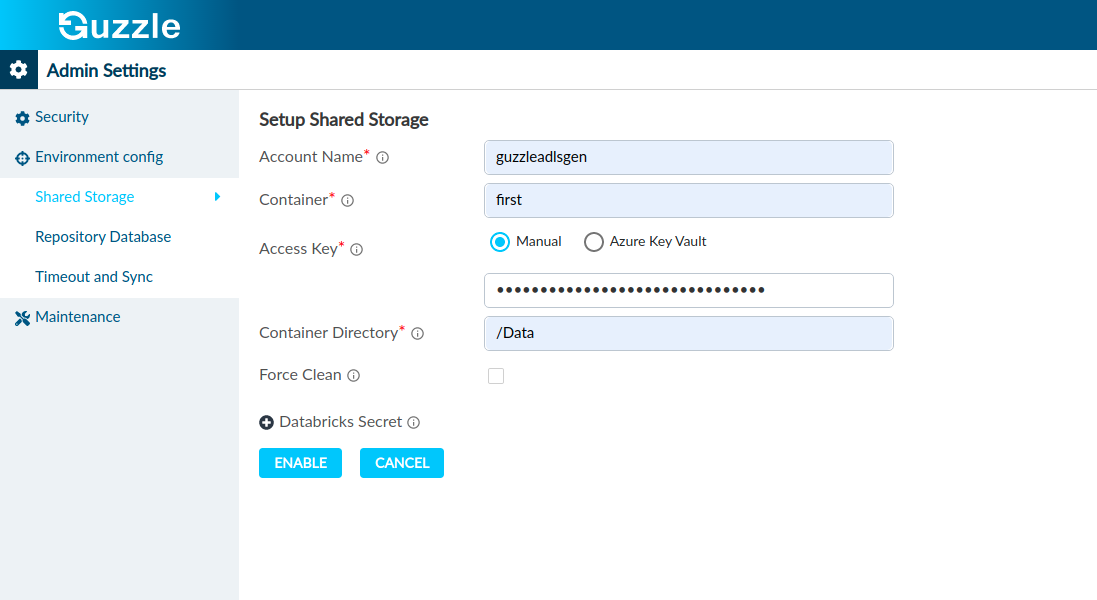
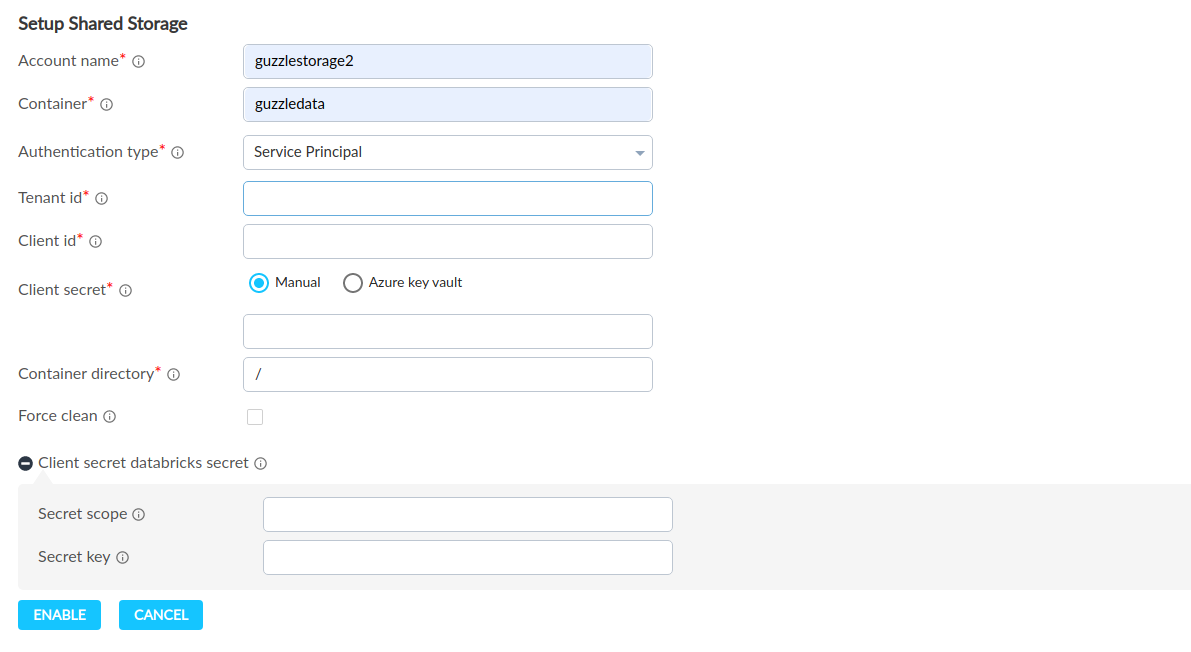
guzzle cli page is added and in shared storage page support for service priciple is added

diff --git a/sidebars.js b/sidebars.js
@@ -37,6 +37,7 @@ module.exports = {
       type: 'category',
       label: 'How to Guides',
       items: [ 
+      'how_to_guides/features/guzzle_cli',
       'how_to_guides/features/how_key_vault_is_used_to_integrate_guzzle',
       {
         'Connection and Environment':[

diff --git a/docs/how_to_guides/administration/environment_config/Setup Shared Storage.md b/docs/how_to_guides/administration/environment_config/Setup Shared Storage.md
@@ -29,24 +29,35 @@ Once shared storage is enabled, you will not be able to disable it anymore.
 
 3. Enter following configuration details:
 
-
-<a href="https://guzzle.justanalytics.com/img/docs/how-to-guides/administrator/environment-config/setup_shared_storage_1.png" target="_self" >
-    <img src="/img/docs/how-to-guides/administrator/environment-config/setup_shared_storage_1.png" />
-</a>
-
 ## Properties to Setup Shared Storage
 
 |Property|Description|Default Value|Required|
 |--- |--- |--- |--- |
 |Account Name|Specify the Azure Storage Account Name.|None|Yes|
 |Container|Specify the Azure storage container name|None|Yes|
+|Authentication Type|Select the Authentication Type: <br/>1. Access Key <br/>- If this option is selected then access key of storage account is required.<br/>2. Service Principle <br/>- If this option is selected then tenant id, client id and client secret is required|None|Yes|
 |Access Key|Specify the access key of storage account.<br/> For specify access key the following options are available:<br/>1. **Manual**: Provide access key directly. <br/>2. **Azure Key Vault**: For this user have to integrate Key Vault with Guzzle for that visit **[here](../../features/how_key_vault_is_used_to_integrate_guzzle)**. Give value of the key vault name and secret name where access key is stored in Azure Key Vault instance.|None|Yes|
+|Tenant Id|Specify the service principle tenant id|None|Yes|
+|Client id|Specify the service principle client id|None|Yes|
+|Client Secret|Specify the client secret.<br/> For specify client secret the following options are available:<br/>1. **Manual**: Provide client secret directly. <br/>2. **Azure Key Vault**: For this user have to integrate Key Vault with Guzzle for that visit **[here](../../features/how_key_vault_is_used_to_integrate_guzzle)**. Give value of the key vault name and secret name where client secret is stored in Azure Key Vault instance.|None|Yes|
 |Container Directory|Specify directory inside the container where GUZZLE_HOME has to be setup. <br/> You can specify / (or root directory) if the GUZZLE_HOME has to be setup in the root directory of the container|None|Yes|
 |Force Clean|You can check this option to clean up existing files in the container before initializing the GUZZLE_HOME. <br/> If kept unchecked, guzzle_will merge the files of GUZZLE_HOME with the existing ones in that directory|False|No|
 |Databricks Secret|Below information is utilized when setting up Databricks Workspace to mount the Azure storage account. The details of setting up Databricks <br/>Workspace is covered here.<br/><br/> Secret Scope: This is the secret scope defined in Databricks workspace.<br /><br/> Secret Key: This is the secret containing the access key for the storage account that is to be used for shared storage.<br/><br/> Refer to these articles to create Databricks Secret Scope and secrets. <br/><br/> How to create secret scope is defined **[here](../../features/how_key_vault_is_used_to_integrate_guzzle)**.|None|No|
 
 
 Guzzle will validate the shared storage configuration ensuring the storage account, container, access key, and folder are valid before enabling the shared storage.
+
+### Setup Shared Storage using Servie Principle
+
+<a href="https://guzzle.justanalytics.com/img/docs/how-to-guides/administrator/environment-config/setup_shared_storage_1.png" target="_self" >
+    <img src="/img/docs/how-to-guides/administrator/environment-config/setup_shared_storage_1.png" />
+</a>
+
+### Setup Shared Storage using Access Key
+
+<a href="https://guzzle.justanalytics.com/img/docs/how-to-guides/administrator/environment-config/setup_shared_storage_2.png" target="_self" >
+    <img src="/img/docs/how-to-guides/administrator/environment-config/setup_shared_storage_2.png" />
+</a>
 
 ## Steps to edit the Shared Storage configuration
 

diff --git a/docs/how_to_guides/features/guzzle_cli.md b/docs/how_to_guides/features/guzzle_cli.md
@@ -1,0 +1,90 @@
+---
+id: guzzle_cli
+title: Guzzle CLI
+---
+
+- Users can use Guzzle from terminal by Guzzle CLI feature. Users have to download guzzlecli package
+
+## Intstallation
+
+Coming soon
+
+## Groups
+
+- Guzzle CLI has total 12 module like 
+    - profile
+    - activity
+    - pipeline
+    - batch
+    - schedule
+    - compute
+    - datastore
+    - connection
+    - environment
+    - access-token
+    - user
+    - export
+
+- From Guzzle CLI users can perform several operations like create user profile, run activity, run pipeline, init batch, run stage and export metadata
+
+## Profile
+
+- For creating profile user has to give values for following parameter
+
+|parameter | description|
+|--------- | ---------- |
+|name      | profile name, if profile is already exist it will update its credentials | 
+|host      | guzzle instance url. ex, https://&lt;guzzle-instance-url&gt;, user can specify its value by setting up the environment variable GUZZLE_CLI_HOST |
+|token     | guzzle access token, user can generate token using My Profile -> Access Token -> Generate Token option in Guzzle UI. user can configure its value by setting up the environment variable GUZZLE_CLI_TOKEN |
+|default   | use this profile as default profile or not |
+
+- User can also see all availables profile and also can delete profile.
+- Profile is used to create new profile and update existing profile access credentials. which are stored in ~/.guzzlecliconf file on Unix, Linux, or macOS. user can change the path of this file by setting the environment variable GUZZLE_CLI_CONFIG_FILE. Encrypted Credentials required passphrase value. which are stored in ~/.guzzleclipassphrase file. User can change the path of file by setting environment varialbe GUZZLE_CLI_PASSPHRASE_FILE. file will be auto created by guzzle if it is not available.
+
+## Activity
+
+In this module user can run job individually.
+- There are some features for activity module like they can create activity, run activity, edit, delete, rerun, check run status, and view run history
+
+## Pipeline
+
+In this module user can run multiple job simultaneously.
+- There are some features for pipeline module like user can create pipeline, run pipeline, edit pipeline, delete pipeline, rerun pipeline, check run status, and view run history.
+
+## Batch
+
+In this module user can run multiple job groups.
+- There are some features for batch module like user can create batch, initialize it, run it, check status of run, view run history.
+
+## Schedule
+
+In this module user can schedule job when to run it.
+- There are some features for schedule module like user can create schedule, edit it, check status of run, view run history.
+
+## Compute 
+
+- In this module user can create compute, edit it, delete it, list it, set-default.
+
+## Datastore
+
+- In this module user can create datastore, edit it, delete it, list it, set-default
+
+## Environment
+
+- In this module they can create environment, add-mapping, delete-mapping, add-parameter, delete-parameter
+
+## Access Token
+
+- They can create it, list it and delete it
+
+## User
+
+- User can create user, edit it, delete it, get it and list it
+
+## Export 
+
+- User can export metadata in this module
+
+:::note 
+For more information like which commands and short options is used for which operation visit this **[spreadsheet.](/documents/guzzle_cli.xlsx)**
+:::
